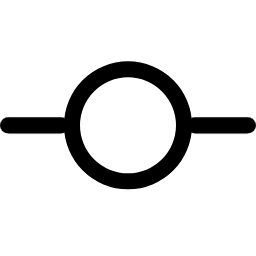
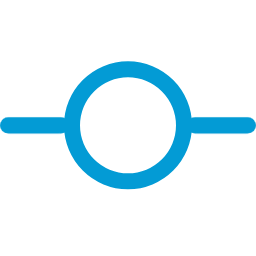
Changed to use treeview for view the code

Changed region(s): [[0.0, 0.2188, 1.0, 0.75]]

diff --git a/gui/CodeWidget.cpp b/gui/CodeWidget.cpp
@@ -29,9 +29,32 @@
 #include <QDesktopServices>
 #include <QUrl>
 #include <QMessageBox>
+#include <QTreeWidget>
+#include <QTreeWidgetItem>
+#include <QApplication>
+#include <QStyle>
 #include <retroshare/rsinit.h>
 
 extern RsGit *rsGit;
+
+class RepoBrowserItem : public QTreeWidgetItem
+{
+public:
+    RepoBrowserItem(QTreeWidget *parent) : QTreeWidgetItem(parent) {}
+    RepoBrowserItem(QTreeWidgetItem *parent) : QTreeWidgetItem(parent) {}
+
+    bool operator<(const QTreeWidgetItem &other) const override
+    {
+        bool thisIsFolder = this->data(0, Qt::UserRole).toString().isEmpty();
+        bool otherIsFolder = other.data(0, Qt::UserRole).toString().isEmpty();
+
+        if (thisIsFolder != otherIsFolder) {
+            return thisIsFolder; // Folders on top
+        }
+
+        return this->text(0).localeAwareCompare(other.text(0)) < 0;
+    }
+};
 
 CodeWidget::CodeWidget(MainWidget *mainWidget, QWidget *parent)
     : QWidget(parent)
@@ -41,8 +64,9 @@ CodeWidget::CodeWidget(MainWidget *mainWidget, QWidget *parent)
     ui->setupUi(this);
 
     ui->mRepoBrowserList->setContextMenuPolicy(Qt::CustomContextMenu);
-    connect(ui->mRepoBrowserList, &QListWidget::customContextMenuRequested, this, &CodeWidget::onRepoBrowserContextMenu);
-    connect(ui->mRepoBrowserList, &QListWidget::itemDoubleClicked, this, &CodeWidget::openSelectedFile);
+    ui->mRepoBrowserList->setHeaderHidden(true);
+    connect(ui->mRepoBrowserList, &QTreeWidget::customContextMenuRequested, this, &CodeWidget::onRepoBrowserContextMenu);
+    connect(ui->mRepoBrowserList, &QTreeWidget::itemDoubleClicked, this, &CodeWidget::openSelectedFile);
     connect(ui->mBtnOpenFolder, &QPushButton::clicked, this, &CodeWidget::onOpenFolderClicked);
     connect(ui->mBtnCreateBranch, &QPushButton::clicked, this, &CodeWidget::onCreateBranchClicked);
     connect(ui->mBtnPullRequests, &QPushButton::clicked, this, &CodeWidget::onPullRequestsClicked);
@@ -235,8 +259,12 @@ void CodeWidget::onOpenFolderClicked()
 
 void CodeWidget::onRepoBrowserContextMenu(const QPoint &pos)
 {
-    QListWidgetItem *item = ui->mRepoBrowserList->itemAt(pos);
+    QTreeWidgetItem *item = ui->mRepoBrowserList->itemAt(pos);
     if (!item) return;
+
+    // Only show context menu for files
+    QString filePath = item->data(0, Qt::UserRole).toString();
+    if (filePath.isEmpty()) return;
 
     QMenu contextMnu(this);
     contextMnu.addAction(QIcon(":/images/open.png"), tr("Open File"), this, &CodeWidget::openSelectedFile);
@@ -245,10 +273,12 @@ void CodeWidget::onRepoBrowserContextMenu(const QPoint &pos)
 
 void CodeWidget::openSelectedFile()
 {
-    QListWidgetItem *item = ui->mRepoBrowserList->currentItem();
+    QTreeWidgetItem *item = ui->mRepoBrowserList->currentItem();
     if (!item) return;
 
-    QString selectedFile = item->text();
+    QString selectedFile = item->data(0, Qt::UserRole).toString();
+    if (selectedFile.isEmpty()) return; // Skip folders
+
     QString rawPath = mMainWidget->getLocalPath();
     QString filePath;
     bool opened = false;
@@ -295,9 +325,57 @@ void CodeWidget::populateRepoBrowser(const QString &branchOrTag)
     std::vector<std::string> files;
 
     if (GitManager::getRepoFiles(bareRepoPath, files, branchOrTag.toStdString())) {
+        QIcon folderIcon(":/images/file-directory-fill-24_.png");
+        QIcon fileIcon(":/images/file-16_ .png");
+
+        QMap<QString, RepoBrowserItem*> folderItems;
+
         for (const std::string& file : files) {
-            ui->mRepoBrowserList->addItem(QString::fromStdString(file));
+            QString filePath = QString::fromStdString(file);
+            QStringList parts = filePath.split('/');
+
+            RepoBrowserItem *parentItem = nullptr;
+            QString currentPath = "";
+
+            // Loop through parent directories
+            for (int i = 0; i < parts.size() - 1; ++i) {
+                if (parts[i].isEmpty()) continue;
+                if (i > 0) currentPath += "/";
+                currentPath += parts[i];
+
+                if (folderItems.contains(currentPath)) {
+                    parentItem = folderItems[currentPath];
+                } else {
+                    RepoBrowserItem *newFolderItem;
+                    if (parentItem) {
+                        newFolderItem = new RepoBrowserItem(parentItem);
+                    } else {
+                        newFolderItem = new RepoBrowserItem(ui->mRepoBrowserList);
+                    }
+                    newFolderItem->setText(0, parts[i]);
+                    newFolderItem->setIcon(0, folderIcon);
+                    newFolderItem->setData(0, Qt::UserRole, ""); // Empty marks it as a folder
+                    folderItems[currentPath] = newFolderItem;
+                    parentItem = newFolderItem;
+                }
+            }
+
+            // Add the file leaf item
+            if (!parts.isEmpty() && !parts.last().isEmpty()) {
+                RepoBrowserItem *fileItem;
+                if (parentItem) {
+                    fileItem = new RepoBrowserItem(parentItem);
+                } else {
+                    fileItem = new RepoBrowserItem(ui->mRepoBrowserList);
+                }
+                fileItem->setText(0, parts.last());
+                fileItem->setIcon(0, fileIcon);
+                fileItem->setData(0, Qt::UserRole, filePath);
+            }
         }
+
+        // Sort items: folders on top, then alphabetical order
+        ui->mRepoBrowserList->sortItems(0, Qt::AscendingOrder);
     }
 }
 

diff --git a/gui/PullRequestDetailsWidget.cpp b/gui/PullRequestDetailsWidget.cpp
@@ -52,6 +52,11 @@ PullRequestDetailsWidget::PullRequestDetailsWidget(const QString &groupId, const
 {
     ui->setupUi(this);
 
+    // Set tab icons
+    ui->mPRTabs->setTabIcon(0, QIcon(":/images/comment-discussion-16_.png"));
+    ui->mPRTabs->setTabIcon(1, QIcon(":/images/commit-24_.png"));
+    ui->mPRTabs->setTabIcon(2, QIcon(":/images/file-diff-24_.png"));
+
     // Styling Title & Status Badge (GitHub-like)
     ui->mLblTitle->setStyleSheet("font-size: 20px; font-weight: bold; color: #24292f;");
     

diff --git a/gui/MainWidget.cpp b/gui/MainWidget.cpp
@@ -125,8 +125,8 @@ MainWidget::MainWidget(QWidget *parent, RetroGitNotify *notify):
     mPushesWidget = new PushesWidget(this, ui->rightPaneTabWidget);
     
     ui->rightPaneTabWidget->addTab(mGitWidget, QIcon(":/images/git.png"), tr("Working Directory"));
-    ui->rightPaneTabWidget->addTab(mCodeWidget, QIcon(":/images/git.png"), tr("Files"));
-    ui->rightPaneTabWidget->addTab(mPushesWidget, QIcon(":/images/git.png"), tr("Pushes / Packs"));
+    ui->rightPaneTabWidget->addTab(mCodeWidget, QIcon(":/images/code-16_.png"), tr("Code"));
+    ui->rightPaneTabWidget->addTab(mPushesWidget, QIcon(":/images/database_.png"), tr("Pushes / Packs"));
     
     ui->rightPaneTabWidget->setTabsClosable(true);
     connect(ui->rightPaneTabWidget, SIGNAL(tabCloseRequested(int)), this, SLOT(onTabCloseRequested(int)));